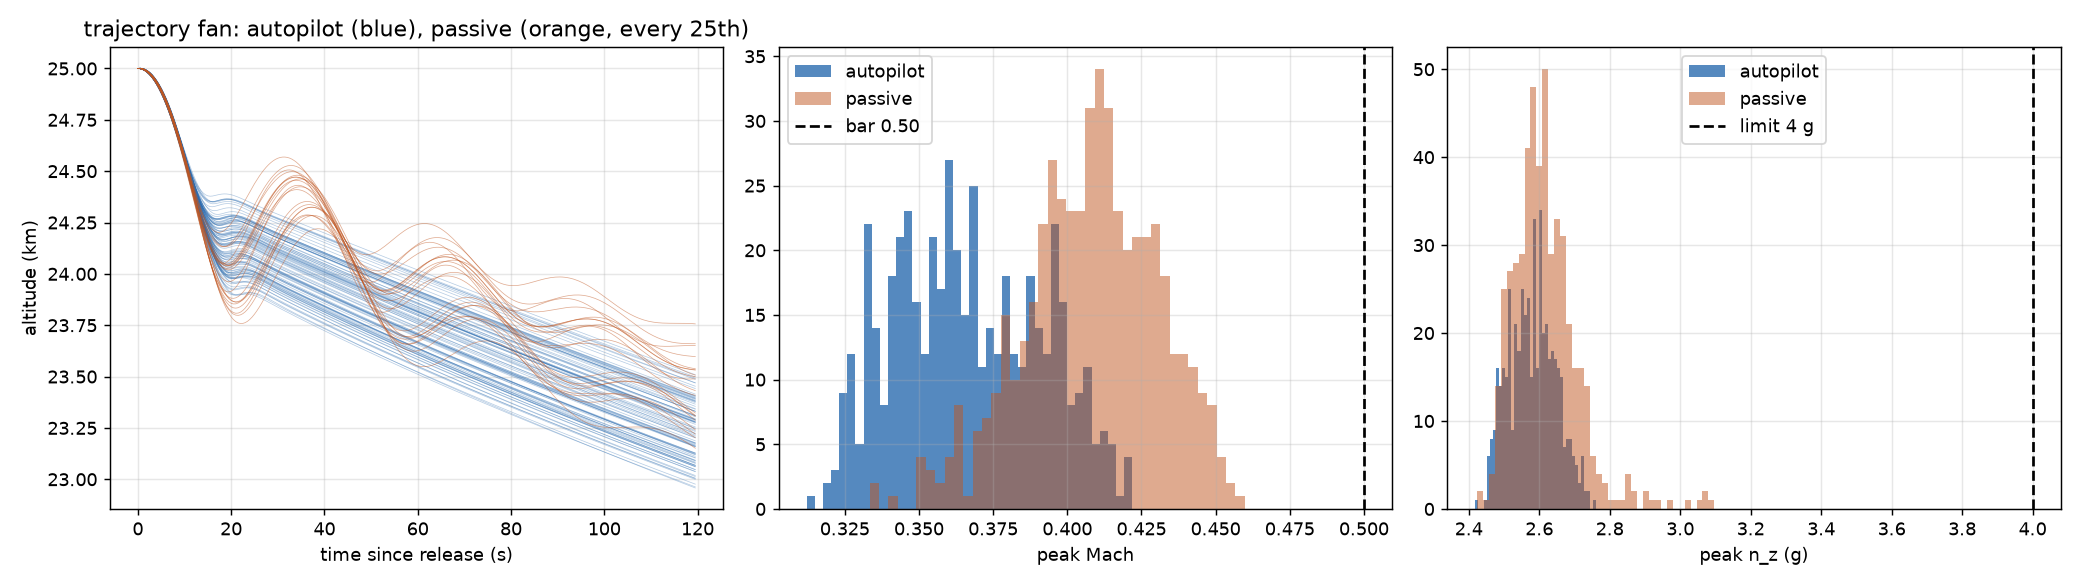
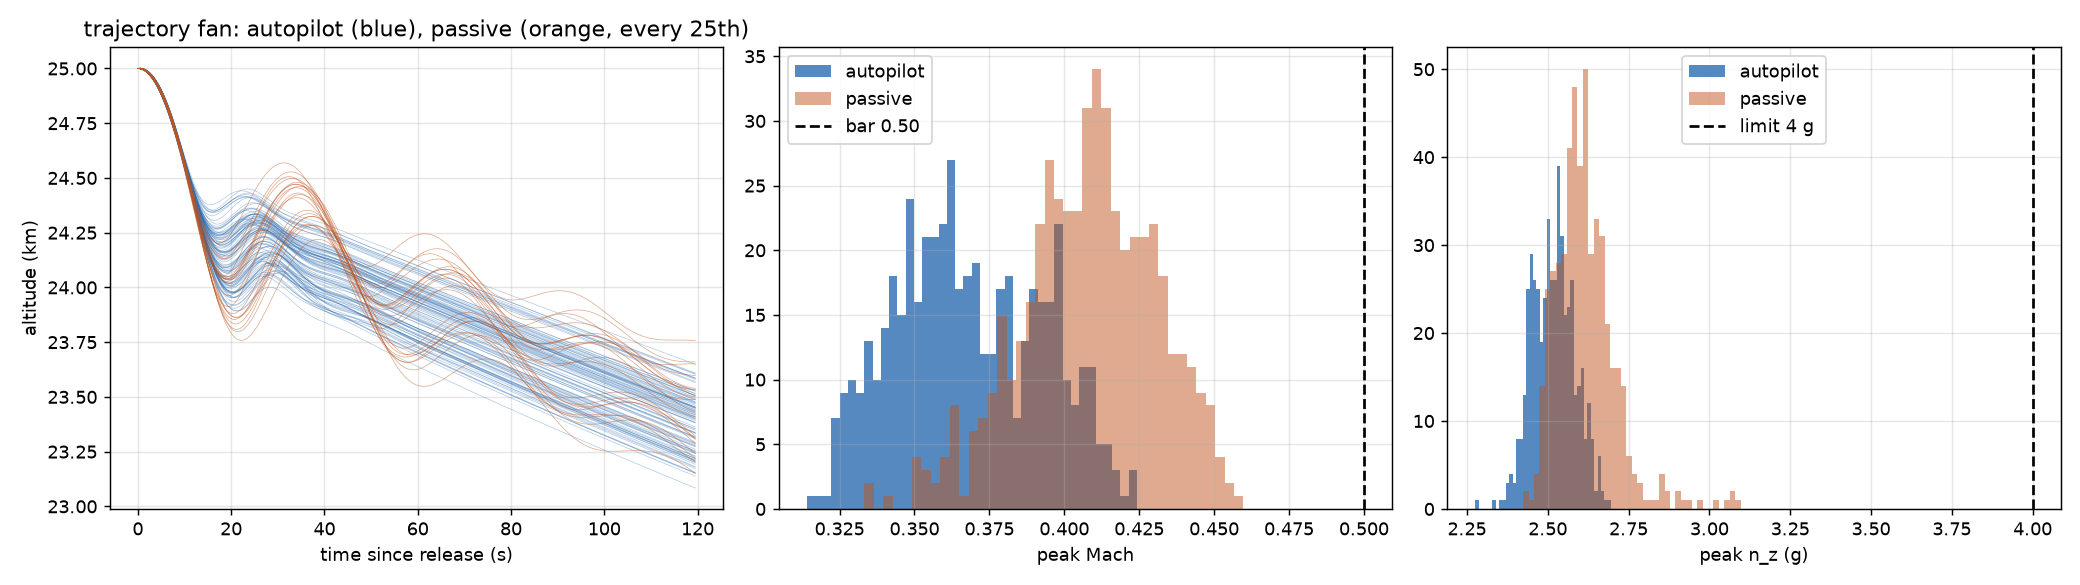
feat(p5): 500-run release MC from 25 km: 100% recovery, P99 Mach 0.417, vertical-dive counterfactual reaches M 0.70
JSBSim and own 6-DOF fly one law: altitude lost 0.9% apart, peak n 1.6%; JSBSim exposed a roll limit cycle from
unscheduled gains (5-13 ms loops at dive q), fixed with (V_ref/EAS)^2 scheduling and a theta gate on roll hold;
passive airframe pulls out but the 20 km phugoid keeps it outside the 3 deg recovered band (check 15 FAIL).

diff --git a/HONEST_LOG.md b/HONEST_LOG.md
@@ -168,3 +168,31 @@ XFOIL at Ncrit 5 vs UIUC Vol 3 (CD MAPE / CLa err / CLmax err):
   motor AT2814 KV900 class (ESTIMATE catalog values), motor eta 0.81 at loiter. P4 re-run on this airframe:
   SM 11.49%, 20 km DR zeta 0.021 (bar 0.02).
 - Winding temperature at low rho is not modelled (GAPS).
+
+## 2026-11-18 P5 release and pull-out
+
+- Own vectorised 6-DOF (quaternion, RK4, dt 0.01 s) and JSBSim 1.3.3 share one aero model (aero_tables.py)
+  and one control law (autopilot.py). Deviation from the plan: the pull-out law runs in Python through the
+  JSBSim property tree each step instead of as an XML <system>, so both simulators fly the identical law.
+- Autopilot bugs found and fixed before the MC used for results: (1) a proportional-only pitch-rate loop left a
+  steady flight-path error (integral added); (2) yaw-damper sign inverted (AVL Cn_dr > 0) drove stalled
+  spirals; (3) gains were unscheduled, giving 5-13 ms closed-loop time constants at dive dynamic pressure,
+  comparable to the 10 ms control step. JSBSim showed a +/-100 deg/s roll limit cycle that RK4 had tolerated.
+  Fixed with EAS-scheduled gains, (V_ref/EAS)^2, V_ref = 1.3 Vs, set from target time constants; roll-angle hold
+  is gated off above |theta| 60 deg (Euler gimbal lock). The final MC was re-run on the corrected law.
+- MC N = 500 (LHS, seed 20261118). The plan's "blend width +/-3 deg" is interpreted as blend centre +/-3 deg plus
+  width 1-3 deg.
+  Autopilot: 100% recovered; P99 Mach 0.417; max n 2.70 g; altitude lost P50 841 m / P95 1065 m.
+- Check 15 FAIL (honest) on the passive case: 0% "recovered" (bar 95%). Every passive run pulls out (max Mach
+  0.460, max n 3.10 g), but the 20-25 km phugoid (zeta ~0.09, period ~25 s) is not inside |gamma - gamma_glide|
+  < 3 deg held 10 s within 120 s. Gamma swing in the last 20 s has P50 13.9 deg. The bare airframe is
+  statically safe but not "recovered" by the pre-registered definition.
+- JSBSim vs own nominal: altitude lost 826.6 vs 819.4 m (0.9%), peak n 2.42 vs 2.46 g (1.6%); JSBSim rho(25 km)
+  matches atmos.py to 2.0e-6.
+- Vertical-dive counterfactual (point mass, zero lift, locked nose-down): max Mach 0.698 (0.694 with the drag-rise
+  placeholder). The plan expected M > 1; with CD0 0.048 the terminal speed stays subsonic. The real number goes in.
+- Flutter screen (Theodorsen 2-DOF typical section, V-g, ESTIMATE skin/section values): min flutter speed
+  54.5 m/s EAS (at 25 km, where the flutter TAS is near M 1, outside incompressible Theodorsen validity,
+  flagged). Margin vs MC max EAS 27.4 m/s is 2.0x. Screening estimate, not clearance.
+- Energy sanity: max d(V_air^2/2 + g h)/dt + wind-shear work over 1000 runs = -2.0e-5 W/kg (dissipative).
+- Wind direction is assumed constant with altitude (IGRA percentiles carry speed only).

diff --git a/PROGRESS.md b/PROGRESS.md
@@ -11,3 +11,4 @@ before building on any claimed state. Canonical plan: /Users/saivinay/Desktop/ka
 | P3 sizing: grid + Opti, thermal, geometry, W&B | done; check 9 FAIL on MR-9 strict only (honest) | sg-p3-sized |
 | P4 S&C: AVL SL/19/20 km, modes, W&B pod shift, DR fin trade, VLM cross-check | done; checks 8 and 11 PASS, 12 FAIL (phugoid ratio 21.8% vs 20%), 13 FAIL (ASB non-convergent) | sg-m2-stable |
 | P6 BEMT, FP A/B vs VP, motor pick, P3/P4 re-run | done; 17 FAIL (held-out CT 40.8%), 18 PASS (VP +1.04 pts vs A) | sg-p6-prop |
+| P5 release: 6-DOF + JSBSim, MC N=500, flutter screen | done; 14 PASS, 15 FAIL (passive 0% by strict definition), 16 PASS | sg-p5-release |
